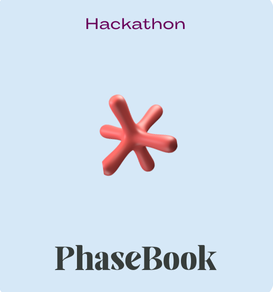
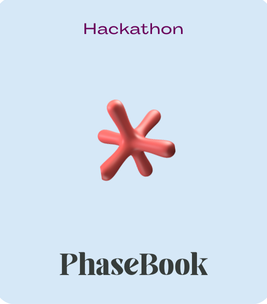
project thumbnail adjustments

diff --git a/style.css b/style.css
@@ -496,7 +496,7 @@ span{
     flex: 1;
     border-radius: 1.5em;
     overflow: hidden;
-    margin: 5rem 0rem;
+    margin-right: 1rem;
     transition: 0.2s ease-in-out;
 }
 
